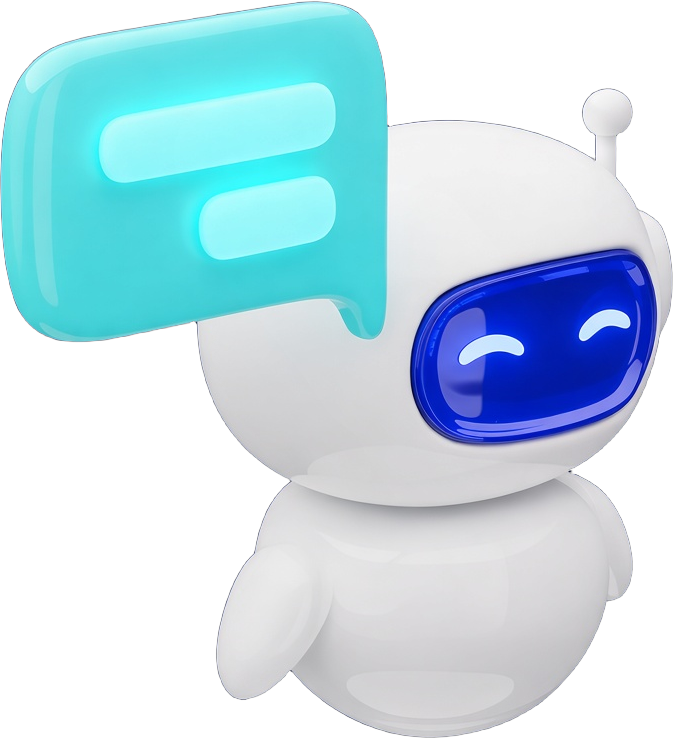
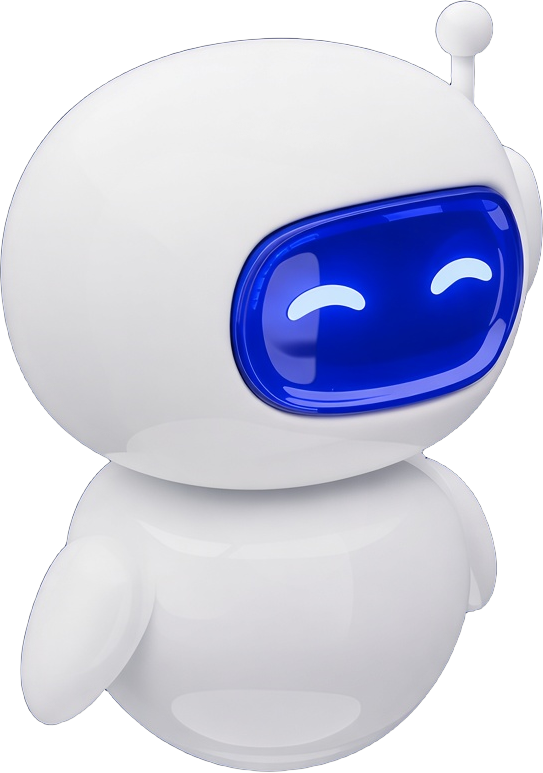
Put Rea's intro inside a speech bubble by her.
Drops the awkward caption under the mascot and keeps the invite line in the chat bubble.

diff --git a/src/app/landing/rea/page.tsx b/src/app/landing/rea/page.tsx
@@ -29,23 +29,34 @@ export default function ReaLoginMockup() {
 
       <div className="relative z-10 flex min-h-[calc(100dvh-2.25rem)] items-center justify-center px-4 py-10">
         <div className="grid w-full max-w-5xl overflow-hidden rounded-[2rem] border border-white/20 bg-[#000851]/28 shadow-[0_30px_80px_rgba(0,8,81,0.45)] backdrop-blur-md lg:grid-cols-[1.05fr_0.95fr]">
-          <section className="relative flex min-h-[22rem] flex-col items-center justify-center px-6 py-10 text-center sm:min-h-[28rem]">
-            {/* Bubble sits left of Rea in the art; nudge so her body and the copy share one center. */}
-            <div className="relative z-[1] flex w-full max-w-[20rem] flex-col items-center">
-              <Image
-                src="/brand/rea-mascot.png"
-                alt="Rea, the Realynk assistant"
-                width={673}
-                height={738}
-                unoptimized
-                priority
-                className="h-auto w-full -translate-x-3 drop-shadow-[0_24px_40px_rgba(0,0,0,0.35)] sm:-translate-x-4"
-              />
-              <div className="mt-5 max-w-[16.5rem] -translate-x-3 sm:-translate-x-4">
-                <p className="text-2xl font-bold">I&apos;m Rea, Realynk&apos;s command center manager.</p>
-                <p className="mt-2 text-sm leading-relaxed text-white/80">
-                  Ask your admin for an invite if you&apos;re new here.
-                </p>
+          <section className="relative flex min-h-[22rem] items-center justify-center px-4 py-10 sm:min-h-[28rem] sm:px-6">
+            <div className="relative z-[1] flex w-full max-w-[22rem] flex-col items-center">
+              <div className="relative w-full">
+                <div className="absolute top-2 left-0 z-[2] w-[min(100%,13.5rem)] -translate-y-1 sm:top-4 sm:left-[-0.25rem]">
+                  <div
+                    className="rounded-[1.35rem] px-4 py-3 text-left text-[#000851] shadow-[0_12px_30px_rgba(0,8,81,0.35)]"
+                    style={{ background: "linear-gradient(145deg, #7eb6ff 0%, #0257b5 55%, #0543b8 100%)" }}
+                  >
+                    <p className="text-sm font-bold leading-snug text-white">I&apos;m Rea, Realynk&apos;s command center manager.</p>
+                    <p className="mt-1.5 text-xs leading-relaxed text-white/90">
+                      Ask your admin for an invite if you&apos;re new here.
+                    </p>
+                  </div>
+                  <span
+                    className="ml-10 block h-0 w-0 border-x-[10px] border-t-[14px] border-x-transparent"
+                    style={{ borderTopColor: "#0543b8" }}
+                    aria-hidden
+                  />
+                </div>
+                <Image
+                  src="/brand/rea-mascot.png"
+                  alt="Rea, the Realynk assistant"
+                  width={543}
+                  height={773}
+                  unoptimized
+                  priority
+                  className="relative z-[1] mx-auto mt-16 h-auto w-[min(100%,15rem)] drop-shadow-[0_24px_40px_rgba(0,0,0,0.35)] sm:mt-14 sm:w-[min(100%,16.5rem)]"
+                />
               </div>
             </div>
           </section>
